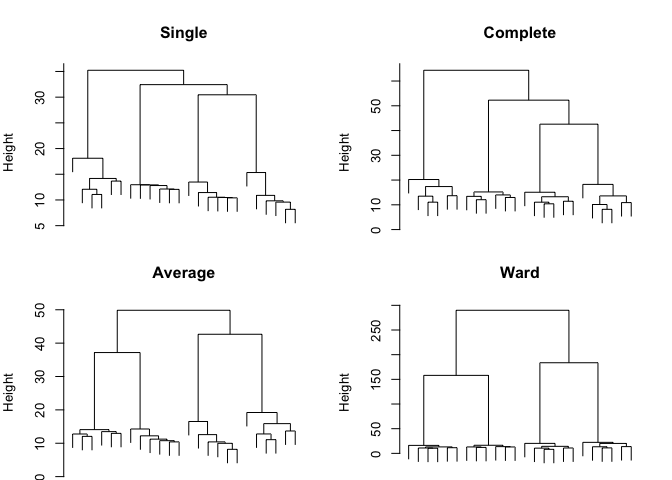
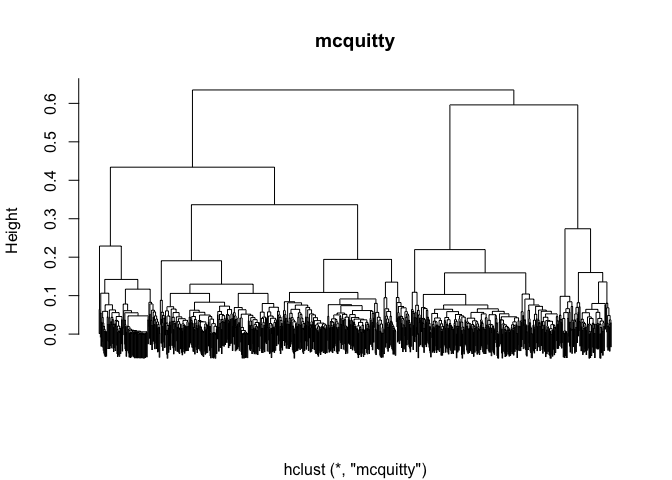
update the seminar6

diff --git a/seminar/seminar 6/semi6.md b/seminar/seminar 6/semi6.md
@@ -118,26 +118,21 @@ pheatmap(topDat, cluster_rows = TRUE, scale = clust_scale, clustering_method = c
 ## Dendrograms for top genes
 
 Regenerate the dendrogram on the samples of this heatmap using the
-hclust and dist functions.
+hclust and dist functions. We use the correlation between genes as
+distance, name the distance as `cor.dis`. Then use the `mcquitty` method
+to find the cluster distance.
 
 ``` r
 data_to_plot = topDat
 # compute pairwise distances
-pr.dis <- dist(t(data_to_plot), method = "euclidean")
+pr.dis <- dist(data_to_plot, method = "euclidean")
 
+co.dis <- as.dist((1 - cor(t(data_to_plot)))/2)
 # compute hierarchical clustering using different linkage types
-pr.hc.s <- hclust(pr.dis, method = "single")
-pr.hc.c <- hclust(pr.dis, method = "complete")
-pr.hc.a <- hclust(pr.dis, method = "average")
-pr.hc.w <- hclust(pr.dis, method = "ward.D")
-
+pr.hc.s <- hclust(co.dis, method = "mcquitty")
 # plot them
-op <- par(mar = c(0, 4, 4, 2), mfrow = c(2, 2))
 
-plot(pr.hc.s, labels = FALSE, main = "Single", xlab = "")
-plot(pr.hc.c, labels = FALSE, main = "Complete", xlab = "")
-plot(pr.hc.a, labels = FALSE, main = "Average", xlab = "")
-plot(pr.hc.w, labels = FALSE, main = "Ward", xlab = "")
+plot(pr.hc.s, labels = FALSE, main = "mcquitty", xlab = "")
 ```
 
 ![](semi6_files/figure-gfm/unnamed-chunk-5-1.png)<!-- -->
